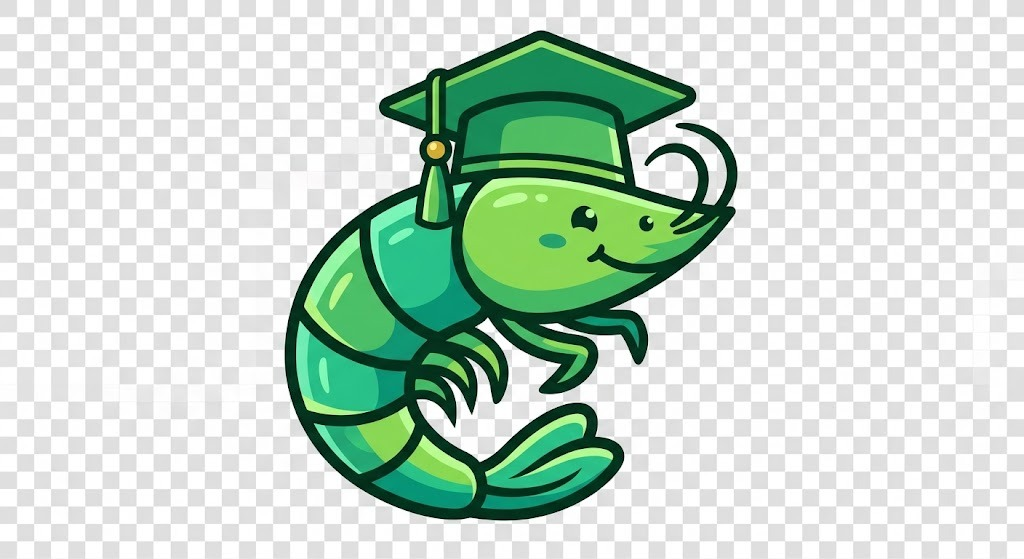
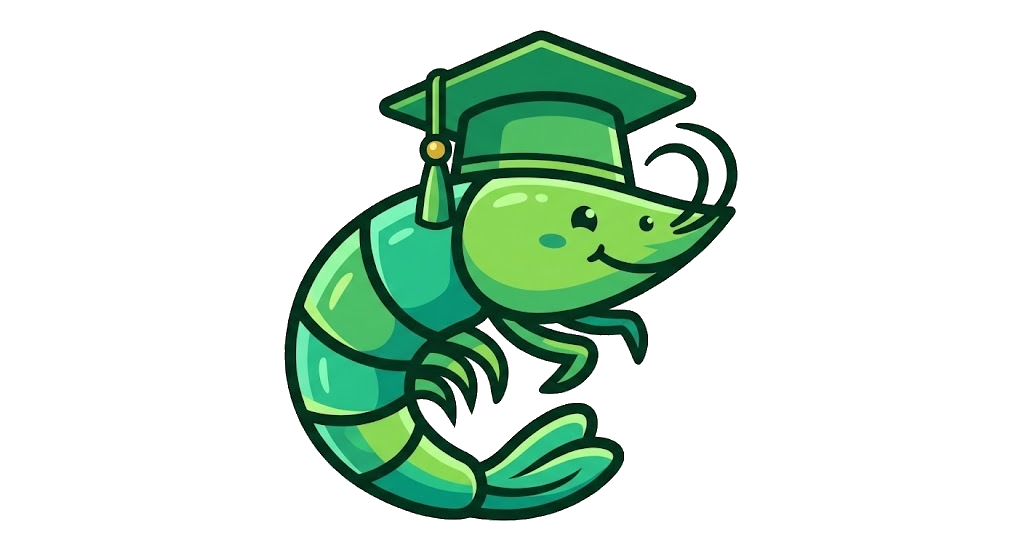
feat: add SVG connecting lines to dashboard grid, make mascot background transparent PNG, convert Quality Standards to 4-card grid with empty slots, and update CTA button

diff --git a/src/styles/global.css b/src/styles/global.css
@@ -1036,3 +1036,46 @@ footer a:hover { color: var(--color-primary-light); padding-left: 4px; }
   -webkit-text-stroke: 0px !important;
   text-shadow: 0 2px 10px rgba(0, 0, 0, 0.8) !important;
 }
+
+/* Modern Squircle Harvest Action Button */
+.btn-harvest-action {
+  display: inline-flex;
+  align-items: center;
+  gap: 0.85rem;
+  padding: 1.05rem 2.6rem;
+  background: linear-gradient(135deg, #367F2D 0%, #234C20 100%);
+  color: #FFFFFF !important;
+  font-weight: 700;
+  font-size: 1.05rem;
+  border-radius: 14px;
+  text-decoration: none;
+  box-shadow: 0 8px 22px rgba(35, 76, 32, 0.22);
+  transition: transform 0.3s cubic-bezier(0.16, 1, 0.3, 1), box-shadow 0.3s ease;
+  position: relative;
+  overflow: hidden;
+}
+
+.btn-harvest-action:hover {
+  transform: translateY(-3px) scale(1.02);
+  box-shadow: 0 14px 30px rgba(35, 76, 32, 0.32);
+}
+
+.btn-harvest-action i {
+  transition: transform 0.3s ease;
+}
+
+.btn-harvest-action:hover i {
+  transform: translateX(5px);
+}
+
+@media (max-width: 991px) {
+  .quality-grid-row {
+    grid-template-columns: repeat(2, 1fr) !important;
+  }
+}
+
+@media (max-width: 575px) {
+  .quality-grid-row {
+    grid-template-columns: 1fr !important;
+  }
+}
